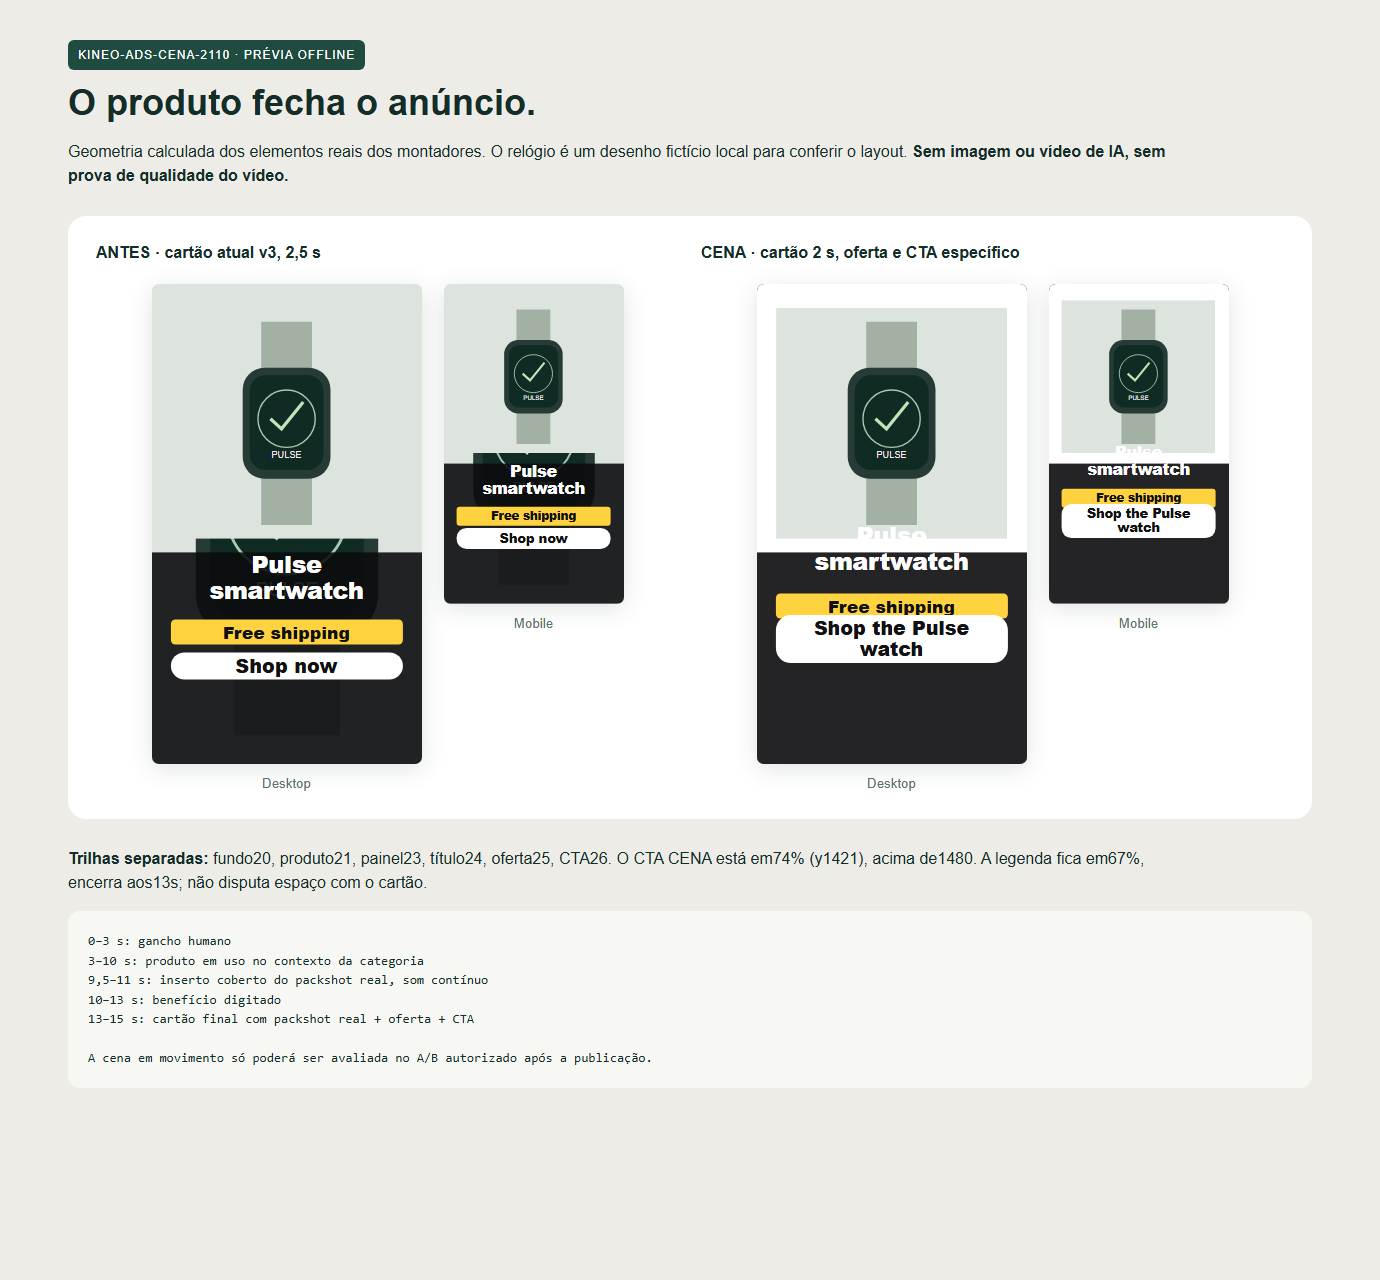
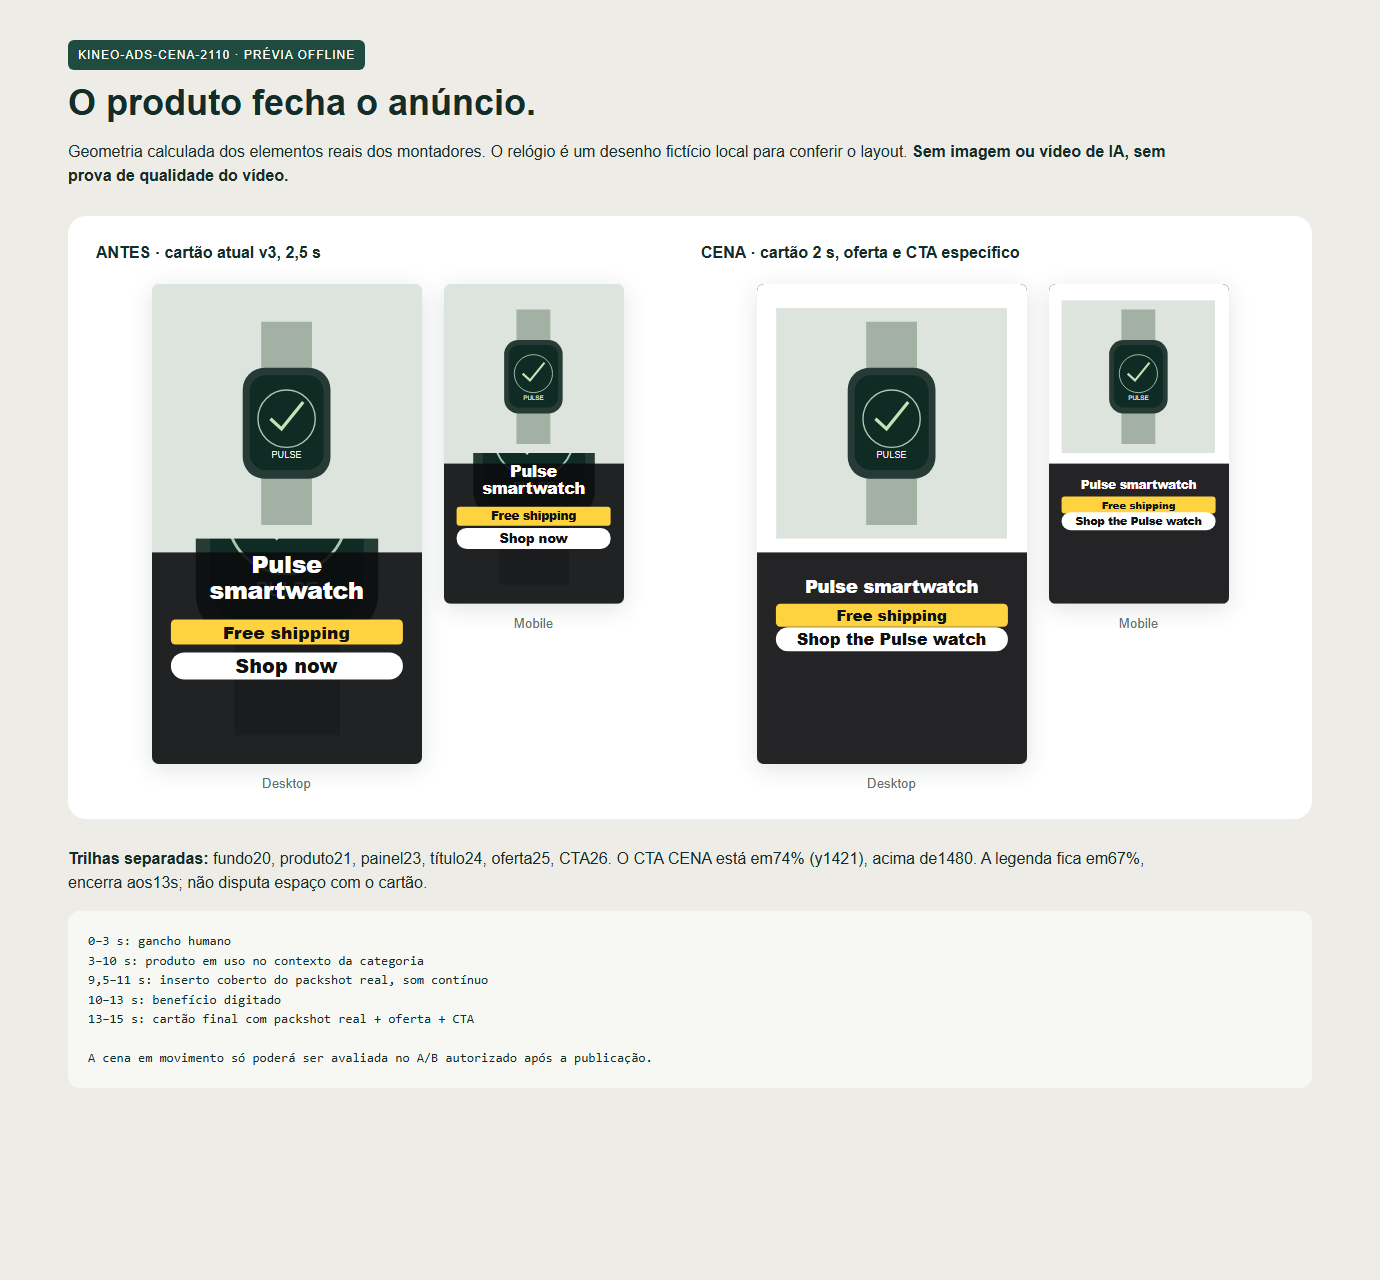
KINEO-ADS-CENA-2110 cartão com título inteiro na zona segura [TRAVA 8.2 — vai do fundador 21/10 "A e B, vamo time"]

Changed region(s): [[0.5609, 0.4062, 0.7478, 0.5312], [0.7478, 0.3438, 0.9036, 0.4375]]

diff --git a/docs/previews/ads-cena-montage-2110.html b/docs/previews/ads-cena-montage-2110.html
@@ -1,4 +1,4 @@
[2 lines of base64/hex data omitted]
 3–10 s: produto em uso no contexto da categoria
 9,5–11 s: inserto coberto do packshot real, som contínuo
 10–13 s: benefício digitado

diff --git a/lib/ads/cena/montage.ts b/lib/ads/cena/montage.ts
@@ -20,11 +20,11 @@ export function buildCenaMontage(s: CenaState): Record<string, unknown> {
   if (backdrop) { delete backdrop.source; delete backdrop.fit; delete backdrop.animations; backdrop.type = 'shape'; backdrop.path = 'M 0 0 L 100 0 L 100 100 L 0 100 L 0 0 Z'; backdrop.fill_color = '#ffffff' }
   // Cartão CENA dentro da zona segura: título, selo e CTA em trilhas próprias, CTA acima de y1480.
   for (const e of card.filter(e => e.type === 'text')) {
-    if (e.track === 24) e.y = '60.5%'
-    if (e.track === 25) e.y = '67%'
+    if (e.track === 24) e.y = '65%'
+    if (e.track === 25) e.y = '69%'
     if (e.track === 26) e.y = '74%'
     const n = String(e.text ?? '').length
-    if (e.track === 25 || e.track === 26) e.font_size = Math.max(38, Math.min(Number(e.font_size), Math.floor(width * 0.78 / Math.max(1, n * 0.55))))
+    if (e.track === 24 || e.track === 25 || e.track === 26) e.font_size = Math.max(38, Math.min(Number(e.font_size), e.track === 24 ? 70 : e.track === 25 ? 60 : 64, Math.floor(width * 0.78 / Math.max(1, n * 0.55))))
   }
   els.push(...card)
   const beats = [{ text: s.plan.script.hook, start: 0, seconds: 3 }, { text: s.plan.script.use, start: 3, seconds: 7 }, { text: s.plan.script.benefit, start: 10, seconds: 3 }]
